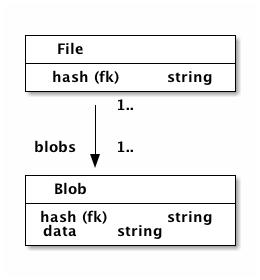
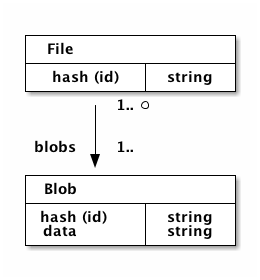
added link to docu and updated data-model

diff --git a/README.md b/README.md
@@ -3,3 +3,7 @@
 [![Scrutinizer Code Quality](https://scrutinizer-ci.com/g/symcloud/distributed-storage/badges/quality-score.png?b=master)](https://scrutinizer-ci.com/g/symcloud/distributed-storage/?branch=master)
 
 Storage System of symcloud application
+
+## Documentation
+
+See [docs/intro.md](https://github.com/symcloud/distributed-storage/blob/master/doc/intro.md)
